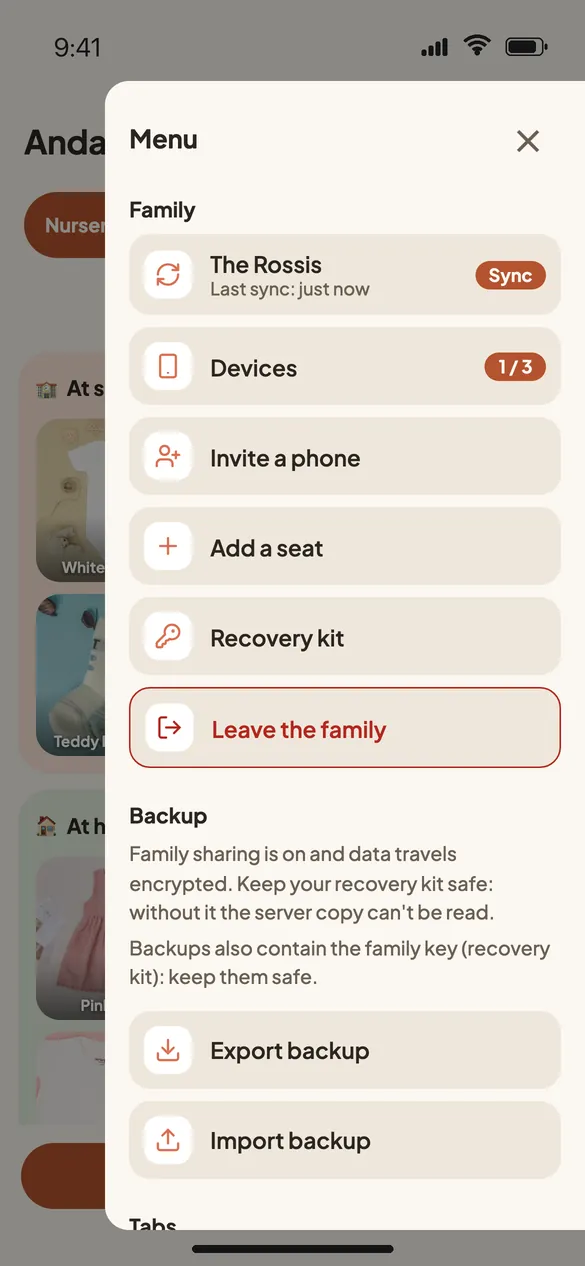
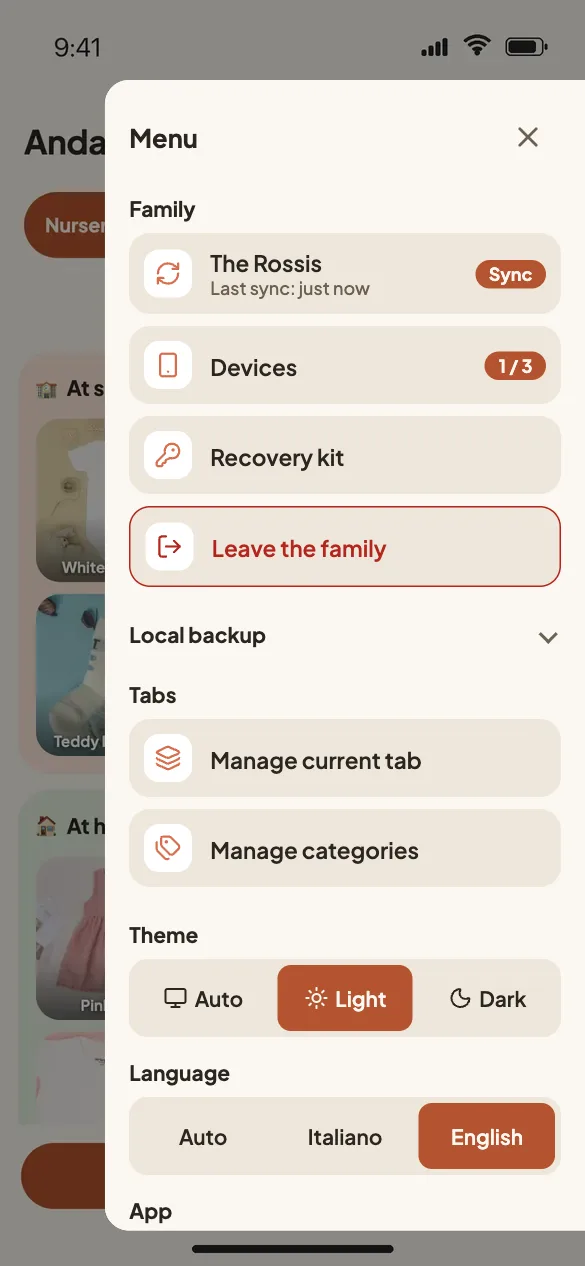
Menu polish: local backup section, devices dialog actions, links in Chrome (3.4.1)
- Devices: the "this" badge is a compact tag beside the device name instead of a
  full-width grey row; long names end with an ellipsis.
- "Backup" becomes "Local backup" and folds into a collapsible section, folded by
  default while family sharing is active (the server keeps an encrypted copy).
- "Invite a phone" and "Add a seat" move from the family menu into the devices
  dialog, under the list they extend; invite shows only while a seat is free,
  otherwise a short line explains that a seat must be added first.
- A long family name stays on one line with an ellipsis in the menu.
- Guide and Privacy open in a real Chrome tab from the app installed on Android
  (intent: URL with the plain URL as fallback), so the app is not replaced.
- Guide and landing texts updated for the new paths; menu screenshots redone.
- Version 3.4.1.

diff --git a/landing/public/guida/index.html b/landing/public/guida/index.html
@@ -102,7 +102,7 @@
       <div class="shots" data-shots="categorie"><figure class="shot"><div class="phone on-light"><img src="/shots/it/filter-light.webp" alt="Il filtro Pantaloni attivo" width="390" height="844" loading="lazy"></div><div class="phone on-dark"><img src="/shots/it/filter-dark.webp" alt="Il filtro Pantaloni attivo" width="390" height="844" loading="lazy"></div><figcaption>I filtri mostrano solo le categorie scelte.</figcaption></figure></div>
 
       <h2 id="backup">Backup</h2>
-      <p>Senza famiglia i dati vivono solo sul telefono: se lo perdi o cancelli i dati del browser, spariscono. Da Menu → <strong>Esporta backup</strong> ottieni un unico file <code>.zip</code> con capi e foto; A/R lo rilegge e lo verifica prima di salvarlo. Con <strong>Importa backup</strong> lo riporti su un altro telefono, senza creare doppioni. A/R ti ricorda quando ci sono modifiche non ancora esportate.</p>
+      <p>Senza famiglia i dati vivono solo sul telefono: se lo perdi o cancelli i dati del browser, spariscono. Dalla sezione <strong>Backup locale</strong> del menu, <strong>Esporta backup</strong> ottieni un unico file <code>.zip</code> con capi e foto; A/R lo rilegge e lo verifica prima di salvarlo. Con <strong>Importa backup</strong> lo riporti su un altro telefono, senza creare doppioni. A/R ti ricorda quando ci sono modifiche non ancora esportate. In famiglia il server tiene già una copia cifrata, quindi la sezione parte chiusa: un tocco sul titolo la riapre.</p>
 
       <div class="shots" data-shots="backup"><figure class="shot"><div class="phone on-light"><img src="/shots/it/menu-light.webp" alt="Il menu con le voci di backup" width="390" height="844" loading="lazy"></div><div class="phone on-dark"><img src="/shots/it/menu-dark.webp" alt="Il menu con le voci di backup" width="390" height="844" loading="lazy"></div><figcaption>Esporta e importa dal menu.</figcaption></figure></div>
 
@@ -112,11 +112,11 @@
         <li>Menu → <strong>Condivisione famiglia</strong>: acquisti e ricevi un codice sulla pagina di conferma e per email.</li>
         <li>Menu → <strong>Ho già un codice</strong>: incolli il codice, scegli il nome della famiglia e del telefono.</li>
         <li>A/R ti mostra subito il <a href="#kit">kit di recupero</a>: salvalo prima di fare altro.</li>
-        <li>Menu → <strong>Invita un telefono</strong>: sull'altro telefono inquadri il QR o apri il link, poi scegli se unire i capi che ha già o usare quelli della famiglia.</li>
+        <li>Menu → <strong>Dispositivi</strong> → <strong>Invita un telefono</strong>: sull'altro telefono inquadri il QR o apri il link, poi scegli se unire i capi che ha già o usare quelli della famiglia.</li>
       </ol>
       <p>I telefoni si sincronizzano da soli quando apri l'app e mentre la usi; la riga in alto dice quando è successo l'ultima volta. Capi, foto e nomi sono cifrati sul telefono prima di partire: il server non può leggerli.</p>
 
-      <div class="shots" data-shots="famiglia"><figure class="shot"><div class="phone on-light"><img src="/shots/it/family-menu-light.webp" alt="Il menu Famiglia con dispositivi e inviti" width="390" height="844" loading="lazy"></div><div class="phone on-dark"><img src="/shots/it/family-menu-dark.webp" alt="Il menu Famiglia con dispositivi e inviti" width="390" height="844" loading="lazy"></div><figcaption>La famiglia nel menu.</figcaption></figure><figure class="shot"><div class="phone on-light"><img src="/shots/it/invite-light.webp" alt="L'invito con il QR da inquadrare" width="390" height="844" loading="lazy"></div><div class="phone on-dark"><img src="/shots/it/invite-dark.webp" alt="L'invito con il QR da inquadrare" width="390" height="844" loading="lazy"></div><figcaption>L'invito: un QR valido 10 minuti.</figcaption></figure></div>
+      <div class="shots" data-shots="famiglia"><figure class="shot"><div class="phone on-light"><img src="/shots/it/family-menu-light.webp" alt="Il menu Famiglia con sincronizzazione e dispositivi" width="390" height="844" loading="lazy"></div><div class="phone on-dark"><img src="/shots/it/family-menu-dark.webp" alt="Il menu Famiglia con sincronizzazione e dispositivi" width="390" height="844" loading="lazy"></div><figcaption>La famiglia nel menu.</figcaption></figure><figure class="shot"><div class="phone on-light"><img src="/shots/it/invite-light.webp" alt="L'invito con il QR da inquadrare" width="390" height="844" loading="lazy"></div><div class="phone on-dark"><img src="/shots/it/invite-dark.webp" alt="L'invito con il QR da inquadrare" width="390" height="844" loading="lazy"></div><figcaption>L'invito: un QR valido 10 minuti.</figcaption></figure></div>
 
       <h2 id="kit">Kit di recupero</h2>
       <div class="callout">
@@ -133,11 +133,11 @@
       <div class="shots" data-shots="kit"><figure class="shot"><div class="phone on-light"><img src="/shots/it/kit-light.webp" alt="Il kit di recupero con QR e testo" width="390" height="844" loading="lazy"></div><div class="phone on-dark"><img src="/shots/it/kit-dark.webp" alt="Il kit di recupero con QR e testo" width="390" height="844" loading="lazy"></div><figcaption>Il kit: QR e testo, da conservare.</figcaption></figure></div>
 
       <h2 id="posti">Più telefoni</h2>
-      <p>La famiglia parte con 3 posti. Menu → <strong>Dispositivi</strong> mostra chi c'è e permette di togliere un telefono che non usi più, liberando il posto. Ti serve un telefono in più? Menu → <strong>Aggiungi un posto</strong>: acquisti il posto e incolli lì il codice che ricevi.</p>
+      <p>La famiglia parte con 3 posti. Menu → <strong>Dispositivi</strong> mostra chi c'è e permette di togliere un telefono che non usi più, liberando il posto. Sotto l'elenco trovi <strong>Invita un telefono</strong> finché c'è un posto libero e <strong>Aggiungi un posto</strong> quando te ne serve uno in più: acquisti il posto e incolli lì il codice che ricevi.</p>
 
       <h2 id="cambio">Cambio telefono</h2>
       <ul>
-        <li><strong>Hai ancora un telefono della famiglia:</strong> invita quello nuovo da Menu → <strong>Invita un telefono</strong>, poi togli il vecchio da <strong>Dispositivi</strong>.</li>
+        <li><strong>Hai ancora un telefono della famiglia:</strong> invita quello nuovo da Menu → <strong>Dispositivi</strong> → <strong>Invita un telefono</strong>, poi togli il vecchio da <strong>Dispositivi</strong>.</li>
         <li><strong>Non hai più nessun telefono della famiglia:</strong> usa il kit di recupero (Menu → <strong>Ripristina famiglia</strong>).</li>
         <li><strong>Hai perso anche il kit:</strong> Menu → <strong>Recupera licenza</strong> e inserisci l'email dell'acquisto. Ricevi un link per ripartire con una famiglia nuova: la licenza resta valida, ma i dati cifrati della vecchia famiglia non sono più leggibili. Per questo conviene fare ogni tanto un backup.</li>
       </ul>

diff --git a/landing/public/en/guide/index.html b/landing/public/en/guide/index.html
@@ -102,7 +102,7 @@
       <div class="shots" data-shots="categories"><figure class="shot"><div class="phone on-light"><img src="/shots/en/filter-light.webp" alt="The Trousers filter on" width="390" height="844" loading="lazy"></div><div class="phone on-dark"><img src="/shots/en/filter-dark.webp" alt="The Trousers filter on" width="390" height="844" loading="lazy"></div><figcaption>Filters show only the chosen categories.</figcaption></figure></div>
 
       <h2 id="backup">Backups</h2>
-      <p>Without a family the data lives only on the phone: lose it, or clear the browser's data, and it is gone. Menu → <strong>Export backup</strong> gives you a single <code>.zip</code> file with items and photos; A/R reads it back and checks it before saving. <strong>Import backup</strong> brings it to another phone, without creating duplicates. A/R reminds you when there are changes not yet exported.</p>
+      <p>Without a family the data lives only on the phone: lose it, or clear the browser's data, and it is gone. In the menu's <strong>Local backup</strong> section, <strong>Export backup</strong> gives you a single <code>.zip</code> file with items and photos; A/R reads it back and checks it before saving. <strong>Import backup</strong> brings it to another phone, without creating duplicates. A/R reminds you when there are changes not yet exported. In a family the server already keeps an encrypted copy, so the section starts folded: tap its title to open it.</p>
 
       <div class="shots" data-shots="backup"><figure class="shot"><div class="phone on-light"><img src="/shots/en/menu-light.webp" alt="The menu with the backup entries" width="390" height="844" loading="lazy"></div><div class="phone on-dark"><img src="/shots/en/menu-dark.webp" alt="The menu with the backup entries" width="390" height="844" loading="lazy"></div><figcaption>Export and import from the menu.</figcaption></figure></div>
 
@@ -112,11 +112,11 @@
         <li>Menu → <strong>Family sharing</strong>: buy, and get a code on the confirmation page and by email.</li>
         <li>Menu → <strong>I already have a code</strong>: paste the code, choose the family's and the phone's names.</li>
         <li>A/R shows you the <a href="#kit">recovery kit</a> at once: save it before doing anything else.</li>
-        <li>Menu → <strong>Invite a phone</strong>: on the other phone scan the QR or open the link, then choose whether to merge the items it already has or use the family's.</li>
+        <li>Menu → <strong>Devices</strong> → <strong>Invite a phone</strong>: on the other phone scan the QR or open the link, then choose whether to merge the items it already has or use the family's.</li>
       </ol>
       <p>Phones sync on their own when you open the app and while you use it; the line at the top says when it last happened. Items, photos and names are encrypted on the phone before they leave: the server cannot read them.</p>
 
-      <div class="shots" data-shots="family"><figure class="shot"><div class="phone on-light"><img src="/shots/en/family-menu-light.webp" alt="The Family menu with devices and invites" width="390" height="844" loading="lazy"></div><div class="phone on-dark"><img src="/shots/en/family-menu-dark.webp" alt="The Family menu with devices and invites" width="390" height="844" loading="lazy"></div><figcaption>The family in the menu.</figcaption></figure><figure class="shot"><div class="phone on-light"><img src="/shots/en/invite-light.webp" alt="The invite with a QR code to scan" width="390" height="844" loading="lazy"></div><div class="phone on-dark"><img src="/shots/en/invite-dark.webp" alt="The invite with a QR code to scan" width="390" height="844" loading="lazy"></div><figcaption>The invite: a QR code valid for 10 minutes.</figcaption></figure></div>
+      <div class="shots" data-shots="family"><figure class="shot"><div class="phone on-light"><img src="/shots/en/family-menu-light.webp" alt="The Family menu with sync and devices" width="390" height="844" loading="lazy"></div><div class="phone on-dark"><img src="/shots/en/family-menu-dark.webp" alt="The Family menu with sync and devices" width="390" height="844" loading="lazy"></div><figcaption>The family in the menu.</figcaption></figure><figure class="shot"><div class="phone on-light"><img src="/shots/en/invite-light.webp" alt="The invite with a QR code to scan" width="390" height="844" loading="lazy"></div><div class="phone on-dark"><img src="/shots/en/invite-dark.webp" alt="The invite with a QR code to scan" width="390" height="844" loading="lazy"></div><figcaption>The invite: a QR code valid for 10 minutes.</figcaption></figure></div>
 
       <h2 id="kit">Recovery kit</h2>
       <div class="callout">
@@ -133,11 +133,11 @@
       <div class="shots" data-shots="kit"><figure class="shot"><div class="phone on-light"><img src="/shots/en/kit-light.webp" alt="The recovery kit as QR and text" width="390" height="844" loading="lazy"></div><div class="phone on-dark"><img src="/shots/en/kit-dark.webp" alt="The recovery kit as QR and text" width="390" height="844" loading="lazy"></div><figcaption>The kit: QR and text, to keep safe.</figcaption></figure></div>
 
       <h2 id="seats">More phones</h2>
-      <p>A family starts with 3 seats. Menu → <strong>Devices</strong> shows who is in and lets you remove a phone you no longer use, freeing its seat. Need one more phone? Menu → <strong>Add a seat</strong>: buy the seat and paste the code you get right there.</p>
+      <p>A family starts with 3 seats. Menu → <strong>Devices</strong> shows who is in and lets you remove a phone you no longer use, freeing its seat. Under the list you find <strong>Invite a phone</strong> while a seat is free, and <strong>Add a seat</strong> when you need one more: buy the seat and paste the code you get right there.</p>
 
       <h2 id="new-phone">Changing phone</h2>
       <ul>
-        <li><strong>You still have a family phone:</strong> invite the new one from Menu → <strong>Invite a phone</strong>, then remove the old one from <strong>Devices</strong>.</li>
+        <li><strong>You still have a family phone:</strong> invite the new one from Menu → <strong>Devices</strong> → <strong>Invite a phone</strong>, then remove the old one from <strong>Devices</strong>.</li>
         <li><strong>No family phone is left:</strong> use the recovery kit (Menu → <strong>Restore family</strong>).</li>
         <li><strong>You lost the kit too:</strong> Menu → <strong>Recover licence</strong> and enter the purchase email. You get a link to start over with a new family: the licence stays valid, but the old family's encrypted data can no longer be read. That is why an occasional backup is worth it.</li>
       </ul>

diff --git a/app/src/ui/menu.js b/app/src/ui/menu.js
@@ -10,7 +10,7 @@ import { keepFocus } from './focus.js'
 import { withBusy, importFile, pickImportFile } from './importFlow.js'
 import { getTheme, setTheme } from '../theme.js'
 import { t, getLang, getLangChoice, setLang, onLangChange } from '../i18n.js'
-import { currentPlatform, isStandalone } from '../platform.js'
+import { currentPlatform, isStandalone, openExternal } from '../platform.js'
 import { canPromptInstall, promptInstall } from '../install.js'
 import { openInstallSteps, openUninstallSteps } from './appDialogs.js'
 import { openWipeFlow } from './wipeFlow.js'
@@ -18,7 +18,7 @@ import { menuFooter } from './about.js'
 import { getFamily } from '../sync/family.js'
 import { syncStatus, syncNow, subscribeSync, isProgressOnly } from '../sync/engine.js'
 import { familyMenuHtml } from './familyMenu.js'
-import { familyHooks, openCodeDialog, openDevices, openInvite, openKit, openLeave, leaveBeforeWipe } from './familyDialogs.js'
+import { familyHooks, openCodeDialog, openDevices, openKit, openLeave, leaveBeforeWipe } from './familyDialogs.js'
 import { downloadIcon, uploadIcon, layersIcon, tagsIcon, todoIcon, monitorIcon, sunIcon, moonIcon, smartphoneIcon, uninstallIcon, eraseIcon, shieldIcon, guideIcon, statsIcon, closeIcon } from './icons.js'
 import { statsOn, setStatsOn, markNoticeSeen } from '../stats.js'
 import { backupInfoLine, persistLine, removeTodo, failureRow, exportErrorMessage } from './model.js'
@@ -76,6 +76,8 @@ async function refresh() {
   const family = await getFamily(db)
   // In an active family the server keeps an encrypted copy: no backup reminders (export stays).
   const synced = !!family && !family.pending && !family.removed && syncStatus.state !== 'removed'
+  // The cloud copy makes the local backup secondary: start that section folded (it can be reopened).
+  dlg.querySelector('#backupSection').open = !synced
   dlg.querySelector('#backupInfo').textContent = backupInfoLine(store.items.length, last, synced)
   dlg.querySelector('#persistInfo').textContent = ''
   // Backups made in a family carry its recovery kit (backup.json is plain text).
@@ -100,10 +102,11 @@ async function openMenu() {
 const menuHtml = () => `<h3>${t('menu.title')} <button type="button" class="close" data-menu="close" aria-label="${t('common.close')}">${closeIcon}</button></h3>
     <h4>${t('menu.family')}</h4>
     <div id="familySection"></div>
-    <h4>${t('menu.backup')}</h4>
+    <details id="backupSection" open><summary><h4>${t('menu.backup')}</h4></summary>
     <div class="info"><span id="backupInfo"></span><br><span id="persistInfo"></span><span id="kitInfo" class="kitInfo"></span></div>
     ${menuItem('export', downloadIcon, t('menu.export'))}
     ${menuItem('import', uploadIcon, t('menu.import'))}
+    </details>
     <h4>${t('menu.tabsSection')}</h4>
     ${menuItem('tabs', layersIcon, t('menu.manageTabs'))}
     ${menuItem('categories', tagsIcon, t('menu.manageCategories'))}
@@ -145,10 +148,10 @@ function build() {
     const item = e.target.closest('[data-menu]')
     if (!item) return
     dlg.close()
-    const run = { close: () => {}, export: () => runExport(), import: () => pickImportFile(db), tabs: () => openTabManager(), categories: openCategoryManager, todo: openTodo, install: runInstall, uninstall: () => openUninstallSteps(), guide: () => window.open(getLang() === 'it' ? 'https://ar.gxware.org/guida/' : 'https://ar.gxware.org/en/guide/', '_blank', 'noopener'), privacy: () => window.open('/privacy.html', '_blank', 'noopener'), wipe: () => openWipeFlow({ db, onExport: () => runExport(), leave: leaveBeforeWipe }),
+    const run = { close: () => {}, export: () => runExport(), import: () => pickImportFile(db), tabs: () => openTabManager(), categories: openCategoryManager, todo: openTodo, install: runInstall, uninstall: () => openUninstallSteps(), guide: () => openExternal(getLang() === 'it' ? 'https://ar.gxware.org/guida/' : 'https://ar.gxware.org/en/guide/'), privacy: () => openExternal(new URL('/privacy.html', location.href).href), wipe: () => openWipeFlow({ db, onExport: () => runExport(), leave: leaveBeforeWipe }),
       unlock: () => openPayment(import.meta.env.VITE_STRIPE_LINK_FAMILY), code: openCodeDialog, 'invite-have': () => familyHooks.onJoinInvite(),
       restore: () => familyHooks.onRestore(), licence: () => familyHooks.onLicence(), sync: () => syncNow('menu'), devices: openDevices,
-      invite: openInvite, slot: () => openCodeDialog({ buyLink: payments ? import.meta.env.VITE_STRIPE_LINK_SLOT : null }), kit: () => openKit(), leave: openLeave }[item.dataset.menu]
+      kit: () => openKit(), leave: openLeave }[item.dataset.menu]
     Promise.resolve(run()).catch(reportError)
   })
   // Swipe right on the drawer to close it.

diff --git a/app/src/ui/familyMenu.js b/app/src/ui/familyMenu.js
@@ -3,7 +3,7 @@
 import { t } from '../i18n.js'
 import { esc } from './esc.js'
 import { ago } from './syncLine.js'
-import { usersIcon, refreshIcon, keyIcon, userPlusIcon, plusIcon, lifeBuoyIcon, ticketIcon, mailIcon, smartphoneIcon, logOutIcon } from './icons.js'
+import { usersIcon, refreshIcon, keyIcon, userPlusIcon, lifeBuoyIcon, ticketIcon, mailIcon, smartphoneIcon, logOutIcon } from './icons.js'
 
 /** Every `ApiError.code` the Worker can answer with, plus 'offline' (the request got no answer). */
 export const FAMILY_ERROR_CODES = [
@@ -24,9 +24,10 @@ export function familyError(e) {
 export const devicesText = (devices, limit) => t('family.devicesCount', { n: devices ? devices.length : '–', m: limit == null ? '–' : Number(limit) })
 
 // Same markup as the menu's own rows (menu.js cannot be imported from here: it imports this file).
-const row = (act, icon, label, { sub = '', pill = '', cls = '' } = {}) =>
+// clip: one line with an ellipsis (a family name can be as long as the user wants).
+const row = (act, icon, label, { sub = '', pill = '', cls = '', clip = false } = {}) =>
   `<button type="button" class="menuItem${cls}" data-menu="${act}"><span class="ic">${icon}</span>` +
-  `<span class="txt">${label}${sub ? `<small>${sub}</small>` : ''}</span>${pill ? `<span class="badge">${pill}</span>` : ''}</button>`
+  `<span class="txt">${clip ? `<span class="clip">${label}</span>` : label}${sub ? `<small>${sub}</small>` : ''}</span>${pill ? `<span class="badge">${pill}</span>` : ''}</button>`
 
 const leaveRow = () => row('leave', logOutIcon, t('family.leave'), { cls: ' danger' })
 
@@ -53,12 +54,22 @@ export function familyMenuHtml({ family, info = null, payments, now = new Date()
   const last = info?.lastSyncAt ?? family.lastSyncAt
   const lastText = t('family.lastSync', { ago: last ? ago(last, now) : t('family.neverSynced') })
   return [
-    row('sync', refreshIcon, esc(fam?.name ?? t('family.defaultName')), { sub: esc(lastText), pill: t('family.syncNow') }),
+    row('sync', refreshIcon, esc(fam?.name ?? t('family.defaultName')), { sub: esc(lastText), pill: t('family.syncNow'), clip: true }),
+    // Inviting a phone and adding a seat live in the devices dialog, under the list they extend.
     row('devices', smartphoneIcon, t('family.devices'), { pill: devicesText(fam?.devices, fam?.deviceLimit ?? family.deviceLimit) }),
-    row('invite', userPlusIcon, t('family.invite')),
-    // One row for both ways: buy a seat (with payments on) or type an extra-seat code.
-    row('slot', plusIcon, t('family.slot'), { pill: payments ? t('family.slotPrice') : '' }),
     row('kit', keyIcon, t('family.kit')),
     leaveRow(),
   ].join('')
+}
+
+/**
+ * Actions under the devices list: invite while a seat is free, and always a way to add one
+ * (buy it with payments on, or type an extra-seat code).
+ * @param {{devices: unknown[], deviceLimit: number}} fam @param {boolean} payments
+ * @returns {string}
+ */
+export function devicesActions(fam, payments) {
+  const free = fam.devices.length < Number(fam.deviceLimit)
+  return `<div class="famDevActions">${free ? `<button type="button" data-invite>${t('family.invite')}</button>` : `<p class="plain">${t('family.devices.full')}</p>`}` +
+    `<button type="button" class="${free ? 'cancel' : ''}" data-slot>${t('family.slot')}${payments ? ` · ${t('family.slotPrice')}` : ''}</button></div>`
 }

diff --git a/app/tests/familyMenu.test.js b/app/tests/familyMenu.test.js
@@ -2,7 +2,7 @@
 import { describe, it, expect, beforeEach, afterAll } from 'vitest'
 import fs from 'node:fs'
 import path from 'node:path'
-import { familyMenuHtml, familyError, devicesText, FAMILY_ERROR_CODES } from '../src/ui/familyMenu.js'
+import { familyMenuHtml, familyError, devicesText, devicesActions, FAMILY_ERROR_CODES } from '../src/ui/familyMenu.js'
 import { qrSvg } from '../src/ui/familyDialogs.js'
 import { setLang } from '../src/i18n.js'
 import it_ from '../src/i18n/it.js'
@@ -33,24 +33,32 @@ describe('familyMenuHtml', () => {
     expect(acts(familyMenuHtml({ family: { ...family, pending: { op: 'redeem', body: {} } }, payments: false }))[0]).toBe('unlock')
   })
 
-  it('active: name, last sync, devices count, slot price only with payments', () => {
+  it('active: name (clipped to one line), last sync, devices count; invite and seats live in the devices dialog', () => {
     const info = { state: 'idle', lastSyncAt: '2026-10-25T11:55:00Z', family: { name: 'Famiglia Rossi', deviceLimit: 4, devices: [{ id: 'a' }, { id: 'b' }] } }
     const on = familyMenuHtml({ family, info, payments: true, now: NOW })
-    expect(acts(on)).toEqual(['sync', 'devices', 'invite', 'slot', 'kit', 'leave'])
-    expect(on).toContain('Famiglia Rossi')
+    expect(acts(on)).toEqual(['sync', 'devices', 'kit', 'leave'])
+    expect(on).toContain('<span class="clip">Famiglia Rossi</span>')
     expect(on).toContain('Sincronizzata: 5 min fa')
     expect(on).toContain('2 / 4')
-    expect(on).toContain('1,99 €')
-    expect(familyMenuHtml({ family, info, payments: false, now: NOW })).not.toContain('1,99')
-    expect(acts(familyMenuHtml({ family, info, payments: false, now: NOW }))).toContain('slot') // manual seat codes always work
   })
 
-  it('a code row only when locked; when active, one "add a seat" row takes the extra-seat code', () => {
+  it('devices dialog: invite while a seat is free, add a seat always, price only with payments', () => {
+    const free = { deviceLimit: 4, devices: [{}, {}] }
+    const full = { deviceLimit: 2, devices: [{}, {}] }
+    expect(devicesActions(free, false)).toContain('data-invite')
+    expect(devicesActions(free, false)).toContain('Aggiungi un posto')
+    expect(devicesActions(free, false)).not.toContain('1,99')
+    expect(devicesActions(free, true)).toContain('1,99 €')
+    expect(devicesActions(full, false)).not.toContain('data-invite')
+    expect(devicesActions(full, false)).toContain('data-slot')
+    expect(devicesActions(full, false)).toContain('Tutti i posti sono occupati')
+  })
+
+  it('a code row only when locked', () => {
     const row = (html, act) => new DOMParser().parseFromString(html, 'text/html').querySelector(`[data-menu="${act}"]`)?.textContent
     const info = { state: 'idle', lastSyncAt: null, family: { name: 'F', deviceLimit: 4, devices: [] } }
     expect(row(familyMenuHtml({ family: null, payments: false }), 'code')).toBe('Ho già un codice')
     expect(row(familyMenuHtml({ family, info, payments: false, now: NOW }), 'code')).toBeUndefined()
-    expect(row(familyMenuHtml({ family, info, payments: false, now: NOW }), 'slot')).toBe('Aggiungi un posto')
     setLang('en')
     expect(row(familyMenuHtml({ family: null, payments: false }), 'code')).toBe('I already have a code')
   })

diff --git a/app/src/styles.css b/app/src/styles.css
@@ -182,6 +182,10 @@ dialog .edit-preview[hidden] { display: none; }
 #menu h3 .close { flex: none; display: inline-flex; align-items: center; justify-content: center; min-width: 44px; min-height: 44px; padding: 0 4px; background: none; color: var(--muted); }
 #menu .info { font-size: 0.8125rem; color: var(--muted); margin-bottom: 12px; line-height: 1.5; }
 #menu h4 { margin: 14px 0 8px; text-align: left; font-size: 0.875rem; }
+#menu details > summary { list-style: none; cursor: pointer; display: flex; align-items: center; justify-content: space-between; }
+#menu details > summary::-webkit-details-marker { display: none; }
+#menu details > summary::after { content: ''; width: 7px; height: 7px; margin: 6px 4px 0 0; border: solid var(--muted); border-width: 0 2px 2px 0; transform: rotate(45deg); transition: transform 0.15s; }
+#menu details[open] > summary::after { transform: rotate(-135deg); margin-top: 10px; }
 #menu h3 + h4 { margin-top: 4px; }
 #menu .menuItem { flex: none; min-height: 44px; display: flex; align-items: center; gap: 12px; width: 100%; text-align: left; padding: 10px; margin-bottom: 8px; border-radius: 14px; background: var(--chip); font-size: 0.9375rem; font-weight: 600; }
 #menu .menuItem .ic { flex: none; width: 32px; height: 32px; border-radius: 10px; display: flex; align-items: center; justify-content: center; background: var(--holder); color: var(--accent); }
@@ -189,7 +193,8 @@ dialog .edit-preview[hidden] { display: none; }
 #menu .menuItem[hidden] { display: none; }
 #menu .menuItem .txt { flex: 1 1 auto; display: flex; flex-direction: column; min-width: 0; }
 #menu .menuItem .txt small { font-size: 0.75rem; font-weight: 400; color: var(--muted); }
-#menu .menuItem .badge { white-space: nowrap; }
+#menu .menuItem .badge { white-space: nowrap; flex: none; }
+#menu .menuItem .txt .clip { overflow: hidden; text-overflow: ellipsis; white-space: nowrap; }
 #menu .menuItem.danger { color: var(--danger); }
 #menu .menuItem.danger .ic { color: var(--danger); }
 .seg { display: flex; gap: 4px; padding: 4px; border-radius: 12px; background: var(--chip); }
@@ -313,8 +318,11 @@ dialog .famDevices { list-style: none; margin: 0 0 8px; padding: 0; }
 dialog .famDevices li { display: flex; align-items: center; gap: 10px; padding: 8px 0; }
 dialog .famDevices .txt { flex: 1; min-width: 0; display: flex; flex-direction: column; }
 dialog .famDevices small { color: var(--muted); font-size: 0.75rem; }
-dialog .famDevices .tag { font-size: 0.6875rem; padding: 1px 8px; border-radius: var(--r-pill); background: var(--chip); }
+dialog .famDevices .name { display: flex; align-items: center; gap: 6px; min-width: 0; }
+dialog .famDevices .name b { min-width: 0; overflow: hidden; text-overflow: ellipsis; white-space: nowrap; }
+dialog .famDevices .tag { flex: none; font-size: 0.6875rem; font-weight: 600; line-height: 1.5; padding: 0 8px; border-radius: var(--r-pill); background: var(--chip); }
 dialog .famDevices button.danger { width: auto; padding: 8px 12px; }
+dialog .famDevActions { display: flex; flex-direction: column; gap: 8px; margin-bottom: 8px; }
 dialog button.primary { display: block; width: 100%; margin-top: 8px; }
 dialog .row > button.primary { width: auto; margin-top: 0; }
 dialog button[data-go] + p.plain { margin-top: 16px; }

diff --git a/app/src/ui/familyDialogs.js b/app/src/ui/familyDialogs.js
@@ -4,7 +4,9 @@ import { renderSVG } from 'uqr'
 import { t } from '../i18n.js'
 import { esc } from './esc.js'
 import { openModal, reportError, labelDialog } from './dialogs.js'
-import { familyError } from './familyMenu.js'
+import { familyError, devicesActions } from './familyMenu.js'
+
+const payments = import.meta.env.VITE_PAYMENTS === '1'
 import { ago, enableSyncLine } from './syncLine.js'
 import { scanButton, scanQr } from './scan.js'
 import { syncStatus, syncNow, subscribeSync, isProgressOnly } from '../sync/engine.js'
@@ -183,8 +185,8 @@ const devicesBody = () => {
     return `<p class="plain">${familyError(syncStatus.errorCode ?? 'offline')}</p><button type="button" data-retry>${t('family.retry')}</button>`
   }
   const now = new Date()
-  return `<ul class="famDevices">${fam.devices.map((v) => `<li><span class="txt"><b>${esc(v.name || t('family.devices.unnamed'))}</b>${v.isThis ? ` <span class="tag">${t('family.devices.this')}</span>` : ''}<small>${esc(t('family.devices.lastSeen', { ago: ago(v.lastSeenAt, now) }))}</small></span>${
-    v.isThis ? '' : `<button type="button" class="danger" data-remove="${esc(v.id)}">${t('family.devices.remove')}</button>`}</li>`).join('')}</ul>`
+  return `<ul class="famDevices">${fam.devices.map((v) => `<li><span class="txt"><span class="name"><b>${esc(v.name || t('family.devices.unnamed'))}</b>${v.isThis ? `<span class="tag">${t('family.devices.this')}</span>` : ''}</span><small>${esc(t('family.devices.lastSeen', { ago: ago(v.lastSeenAt, now) }))}</small></span>${
+    v.isThis ? '' : `<button type="button" class="danger" data-remove="${esc(v.id)}">${t('family.devices.remove')}</button>`}</li>`).join('')}</ul>${devicesActions(fam, payments)}`
 }
 
 export function openDevices() {
@@ -199,6 +201,8 @@ export function openDevices() {
   syncNow('menu')
   body.addEventListener('click', (e) => {
     if (e.target.closest('[data-retry]')) { syncNow('menu'); return }
+    if (e.target.closest('[data-invite]')) { d.close(); openInvite().catch(reportError); return }
+    if (e.target.closest('[data-slot]')) { d.close(); openCodeDialog({ buyLink: payments ? import.meta.env.VITE_STRIPE_LINK_SLOT : null }).catch(reportError); return }
     const id = e.target.closest('[data-remove]')?.dataset.remove
     const dev = syncStatus.family?.devices.find((v) => v.id === id)
     if (dev) confirmRemove(d, dev)

diff --git a/app/tests/platform.test.js b/app/tests/platform.test.js
@@ -1,6 +1,6 @@
 // @vitest-environment jsdom
 import { describe, it, expect, beforeEach, vi } from 'vitest'
-import { platformOf, installSteps } from '../src/platform.js'
+import { platformOf, installSteps, externalTarget } from '../src/platform.js'
 import { renderWelcome } from '../src/ui/welcome.js'
 import { t, setLang } from '../src/i18n.js'
 import { shouldShowIosBanner, dismissIosBanner, initIosBanner } from '../src/ui/iosBanner.js'
@@ -119,5 +119,18 @@ describe('banner dismissal redraws the welcome screen', () => {
     document.querySelector('.ios-ok').click()
     expect(root.querySelector('.install').textContent).toMatch(/Condividi/)
     expect(root.querySelector('#firstTab').value).toBe('Nido')
+  })
+})
+
+describe('externalTarget', () => {
+  const url = 'https://app.ar.gxware.org/privacy.html#it'
+  it('sends the installed Android app to a Chrome tab, with the plain URL as fallback', () => {
+    const r = externalTarget(url, { platform: 'android', standalone: true })
+    expect(r.intent).toBe(true)
+    expect(r.url).toBe(`intent://app.ar.gxware.org/privacy.html#Intent;scheme=https;package=com.android.chrome;S.browser_fallback_url=${encodeURIComponent(url)};end`)
+  })
+  it('keeps the plain URL in the browser and on other platforms', () => {
+    expect(externalTarget(url, { platform: 'android', standalone: false })).toEqual({ url, intent: false })
+    expect(externalTarget(url, { platform: 'ios', standalone: true })).toEqual({ url, intent: false })
   })
 })

diff --git a/app/src/platform.js b/app/src/platform.js
@@ -37,3 +37,26 @@ export const currentPlatform = () => platformOf({ ua: navigator.userAgent, maxTo
 
 export const isStandalone = () =>
   (window.matchMedia?.('(display-mode: standalone)').matches ?? false) || navigator.standalone === true
+
+/**
+ * Where to send a link meant for the browser. In an app installed from Chrome on Android, a
+ * plain new window stays inside the app (same origin) or in an overlay with no way back to it:
+ * an intent: URL aimed at Chrome opens a real browser tab, and the app stays where it was.
+ * Elsewhere (and when Chrome is missing, via the fallback) the plain URL is used.
+ * @param {string} url absolute https URL
+ * @param {{platform: string, standalone: boolean}} env
+ * @returns {{url: string, intent: boolean}}
+ */
+export function externalTarget(url, { platform, standalone }) {
+  if (platform !== 'android' || !standalone || !url.startsWith('https://')) return { url, intent: false }
+  const u = new URL(url)
+  const fallback = encodeURIComponent(url)
+  return { url: `intent://${u.host}${u.pathname}${u.search}#Intent;scheme=https;package=com.android.chrome;S.browser_fallback_url=${fallback};end`, intent: true }
+}
+
+/** Open a page in the browser, outside the installed app when there is one. */
+export function openExternal(url) {
+  const target = externalTarget(url, { platform: currentPlatform(), standalone: isStandalone() })
+  if (target.intent) location.href = target.url
+  else window.open(target.url, '_blank', 'noopener')
+}

diff --git a/landing/public/index.html b/landing/public/index.html
@@ -174,7 +174,7 @@
       </div>
       <div class="after-plans note">
         <p><strong>Ci hai ripensato?</strong> Finché non hai usato il codice, entro 14 giorni ti rimborsiamo, senza dover spiegare perché: scrivi a <a href="mailto:hello@ar.gxware.org">hello@ar.gxware.org</a>.</p>
-        <p>Ti serve un posto in più per una famiglia già attiva? <a data-checkout="slot" href="https://app.ar.gxware.org/api/buy/slot">Compra un posto a 1,99 €</a>, poi nell'app: Menu → Famiglia → <strong>Aggiungi un posto</strong>.</p>
+        <p>Ti serve un posto in più per una famiglia già attiva? <a data-checkout="slot" href="https://app.ar.gxware.org/api/buy/slot">Compra un posto a 1,99 €</a>, poi nell'app: Menu → Famiglia → Dispositivi → <strong>Aggiungi un posto</strong>.</p>
         <p>Pagamenti gestiti da Stripe. Leggi i <a data-doc href="https://app.ar.gxware.org/terms.html">termini</a> e l'<a data-doc href="https://app.ar.gxware.org/privacy.html">informativa sulla privacy</a>.</p>
       </div>
     </div>

diff --git a/landing/public/en/index.html b/landing/public/en/index.html
@@ -174,7 +174,7 @@
       </div>
       <div class="after-plans note">
         <p><strong>Changed your mind?</strong> As long as you have not used the code, we refund you within 14 days, no reason needed: write to <a href="mailto:hello@ar.gxware.org">hello@ar.gxware.org</a>.</p>
-        <p>Need one more seat for a family already active? <a data-checkout="slot" href="https://app.ar.gxware.org/api/buy/slot">Buy a seat for €1.99</a>, then in the app: Menu → Family → <strong>Add a seat</strong>.</p>
+        <p>Need one more seat for a family already active? <a data-checkout="slot" href="https://app.ar.gxware.org/api/buy/slot">Buy a seat for €1.99</a>, then in the app: Menu → Family → Devices → <strong>Add a seat</strong>.</p>
         <p>Payments handled by Stripe. Read the <a data-doc href="https://app.ar.gxware.org/terms.html#en">terms</a> and the <a data-doc href="https://app.ar.gxware.org/privacy.html#en">privacy policy</a>.</p>
       </div>
     </div>

diff --git a/app/src/i18n/it.js b/app/src/i18n/it.js
@@ -171,7 +171,7 @@ export default {
   'viewer.pending': 'Rotazione in sospeso: Salva o Annulla',
 
   'menu.title': 'Menu',
-  'menu.backup': 'Backup',
+  'menu.backup': 'Backup locale',
   'menu.export': 'Esporta backup',
   'menu.import': 'Importa backup',
   'menu.tabsSection': 'Schede',
@@ -348,6 +348,7 @@ export default {
   'family.slotCode.go': 'Aggiungi',
   'family.slotCode.done': 'Fatto: la famiglia può avere fino a {n} telefoni.',
   'family.devices.title': 'Dispositivi',
+  'family.devices.full': 'Tutti i posti sono occupati: aggiungine uno per invitare un altro telefono.',
   'family.devices.this': 'questo',
   'family.devices.unnamed': 'Telefono senza nome',
   'family.devices.lastSeen': 'Visto {ago}',
